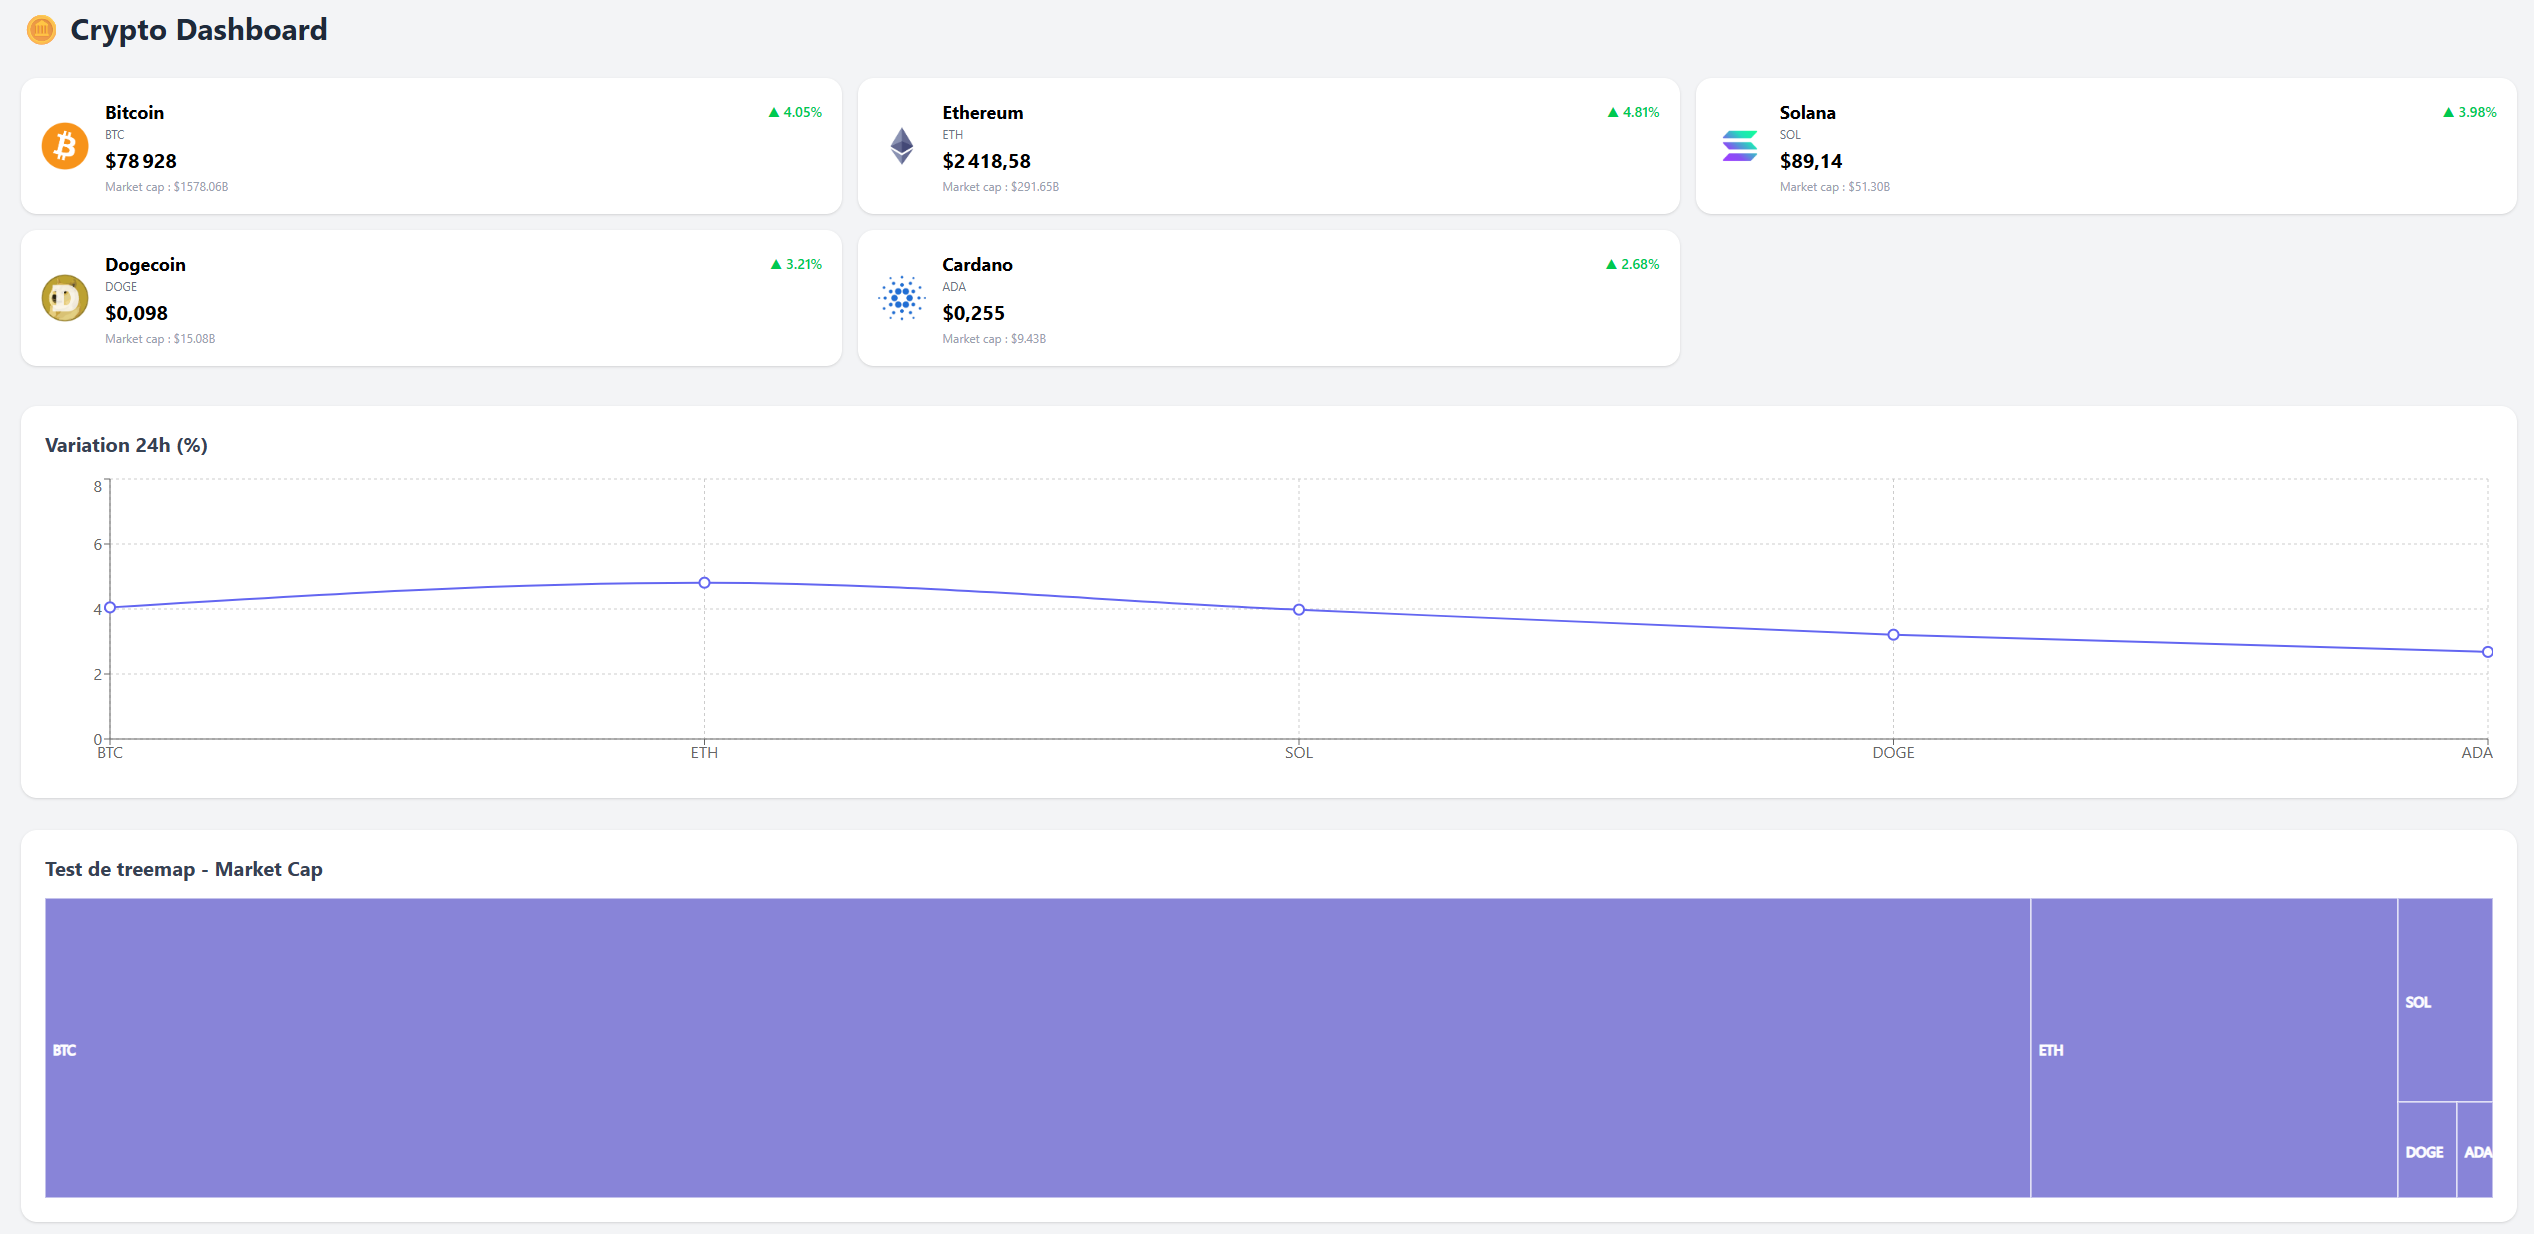
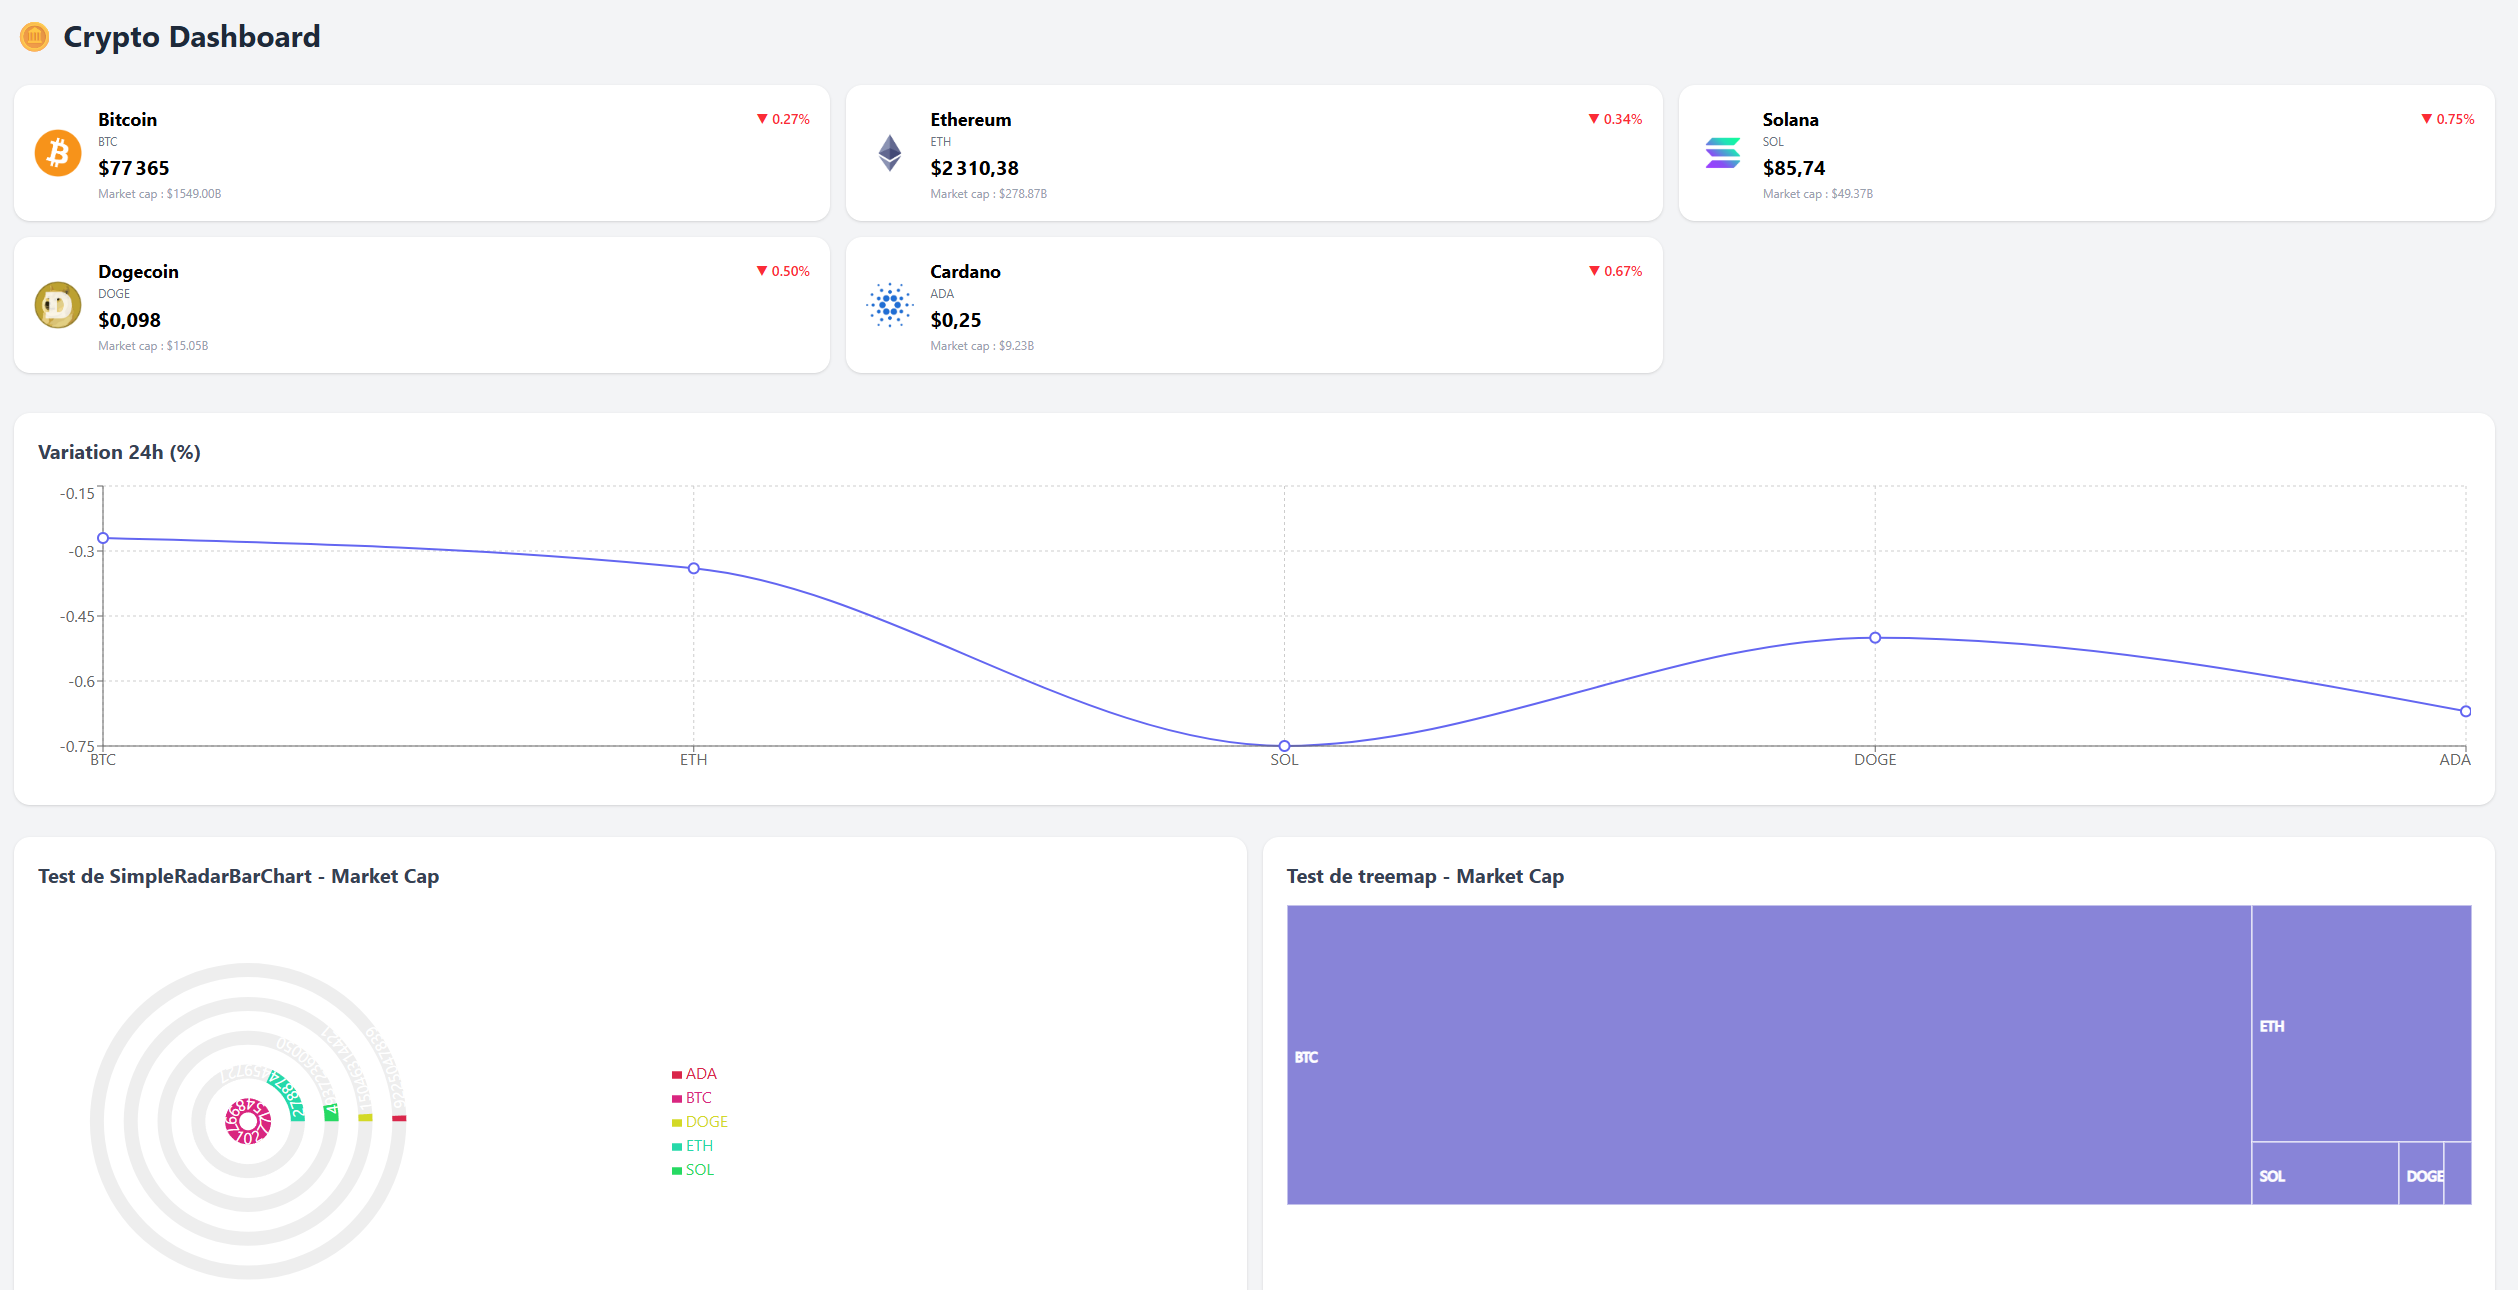
feat: add radialbarchart

diff --git a/src/App.tsx b/src/App.tsx
@@ -9,12 +9,20 @@ import {
   CartesianGrid,
   Treemap,
   RadialBarChart,
+  RadialBar,
+  Legend,
 } from "recharts";
 import { RechartsDevtools } from "@recharts/devtools";
 import CoinCard from "./components/CoinCard";
 
 const COINS = "bitcoin,ethereum,solana,cardano,dogecoin";
 const API_URL = `https://api.coingecko.com/api/v3/coins/markets?vs_currency=usd&ids=${COINS}&order=market_cap_desc`;
+const style = {
+  top: "50%",
+  right: 0,
+  transform: "translate(0, -50%)",
+  lineHeight: "24px",
+};
 
 export default function App() {
   const { data, isLoading, isError } = useQuery({
@@ -50,6 +58,13 @@ export default function App() {
     size: coin.market_cap,
   }));
 
+  const radialBarData = data.map((coin: any) => ({
+    name: coin.symbol.toUpperCase(),
+    uv: coin.market_cap,
+    pv: coin.current_price,
+    fill: `hsl(${Math.floor(Math.random() * 360)}, 70%, 50%)`, // couleur aléatoire pour chaque barre
+  }));
+
   return (
     <div className="min-h-screen bg-gray-100 p-8">
       <h1 className="text-3xl font-bold text-gray-800 mb-8">
@@ -83,35 +98,61 @@ export default function App() {
         </ResponsiveContainer>
       </div>
 
-      <div className="bg-white rounded-2xl p-6 shadow">
-        <h2 className="text-xl font-bold text-gray-700 mb-4">
-          Test de treemap - Market Cap
-        </h2>
-        <ResponsiveContainer width="100%" height={300}>
-          <Treemap
+      <div className="grid grid-cols-1 sm:grid-cols-2 lg:grid-cols-2 gap-4 mb-10">
+        <div className="bg-white rounded-2xl p-6 shadow">
+          <h2 className="text-xl font-bold text-gray-700 mb-4">
+            Test de SimpleRadarBarChart - Market Cap
+          </h2>
+          <RadialBarChart
             style={{
               width: "100%",
-              maxWidth: "500px",
+              maxWidth: "700px",
               maxHeight: "80vh",
-              aspectRatio: 4 / 3,
+              aspectRatio: 1.618,
             }}
-            data={treemapData}
-            dataKey="size"
-            aspectRatio={4 / 3}
-            stroke="#fff"
-            fill="#8884d8"
+            responsive
+            cx="30%"
+            barSize={14}
+            data={radialBarData}
           >
+            <RadialBar
+              label={{ position: "insideStart", fill: "#fff" }}
+              background
+              dataKey="uv"
+            />
+            <Legend
+              iconSize={10}
+              layout="vertical"
+              verticalAlign="middle"
+              wrapperStyle={style}
+            />
+            <Tooltip />
             <RechartsDevtools />
-          </Treemap>
-        </ResponsiveContainer>
-      </div>
+          </RadialBarChart>
+        </div>
 
-      {/* TODO : ajouter un SimpleRadiarBarChart pour afficher la répartition des cryptos en fonction de leur market cap (ex : bitcoin 40%, ethereum 20%, etc) */}
-      <div className="bg-white rounded-2xl p-6 shadow mt-8">
-        <h2 className="text-xl font-bold text-gray-700 mb-4">
-          Test de SimpleRadarBarChart - Market Cap
-        </h2>
-        <RadialBarChart></RadialBarChart>
+        <div className="bg-white rounded-2xl p-6 shadow">
+          <h2 className="text-xl font-bold text-gray-700 mb-4">
+            Test de treemap - Market Cap
+          </h2>
+          <ResponsiveContainer width="100%" height={300}>
+            <Treemap
+              style={{
+                width: "100%",
+                maxWidth: "500px",
+                maxHeight: "80vh",
+                aspectRatio: 4 / 3,
+              }}
+              data={treemapData}
+              dataKey="size"
+              aspectRatio={4 / 3}
+              stroke="#fff"
+              fill="#8884d8"
+            >
+              <RechartsDevtools />
+            </Treemap>
+          </ResponsiveContainer>
+        </div>
       </div>
     </div>
   );
